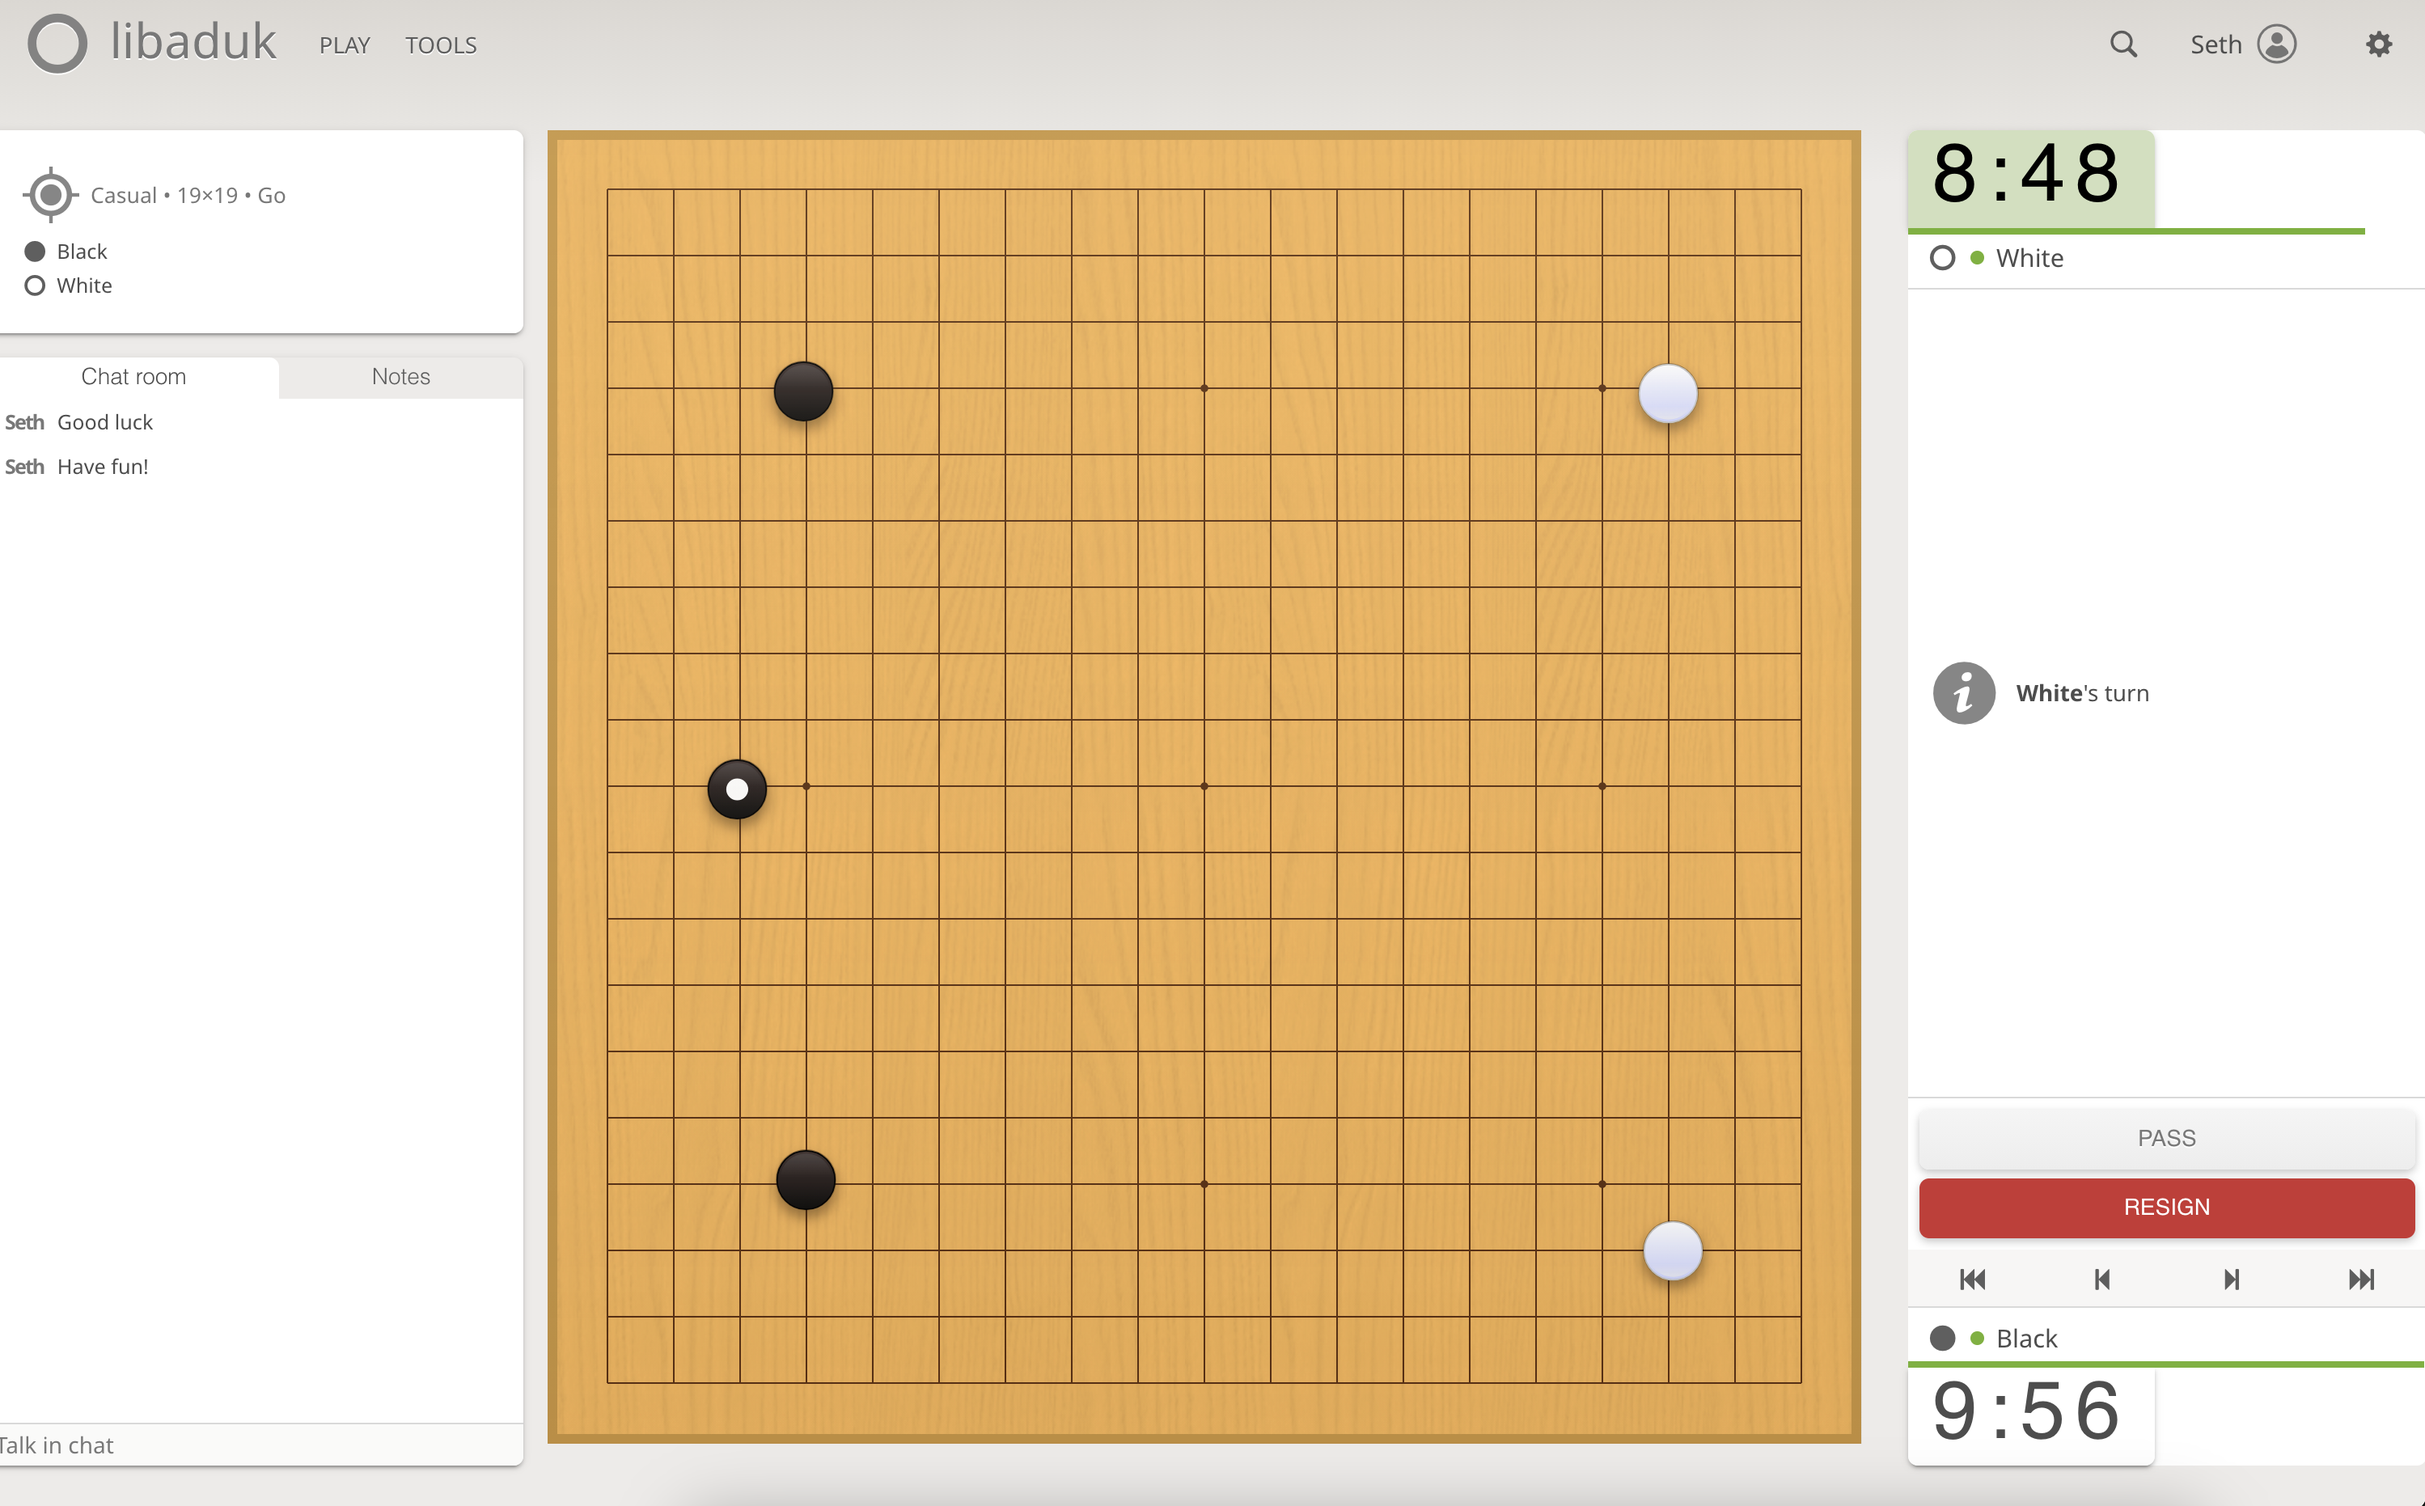
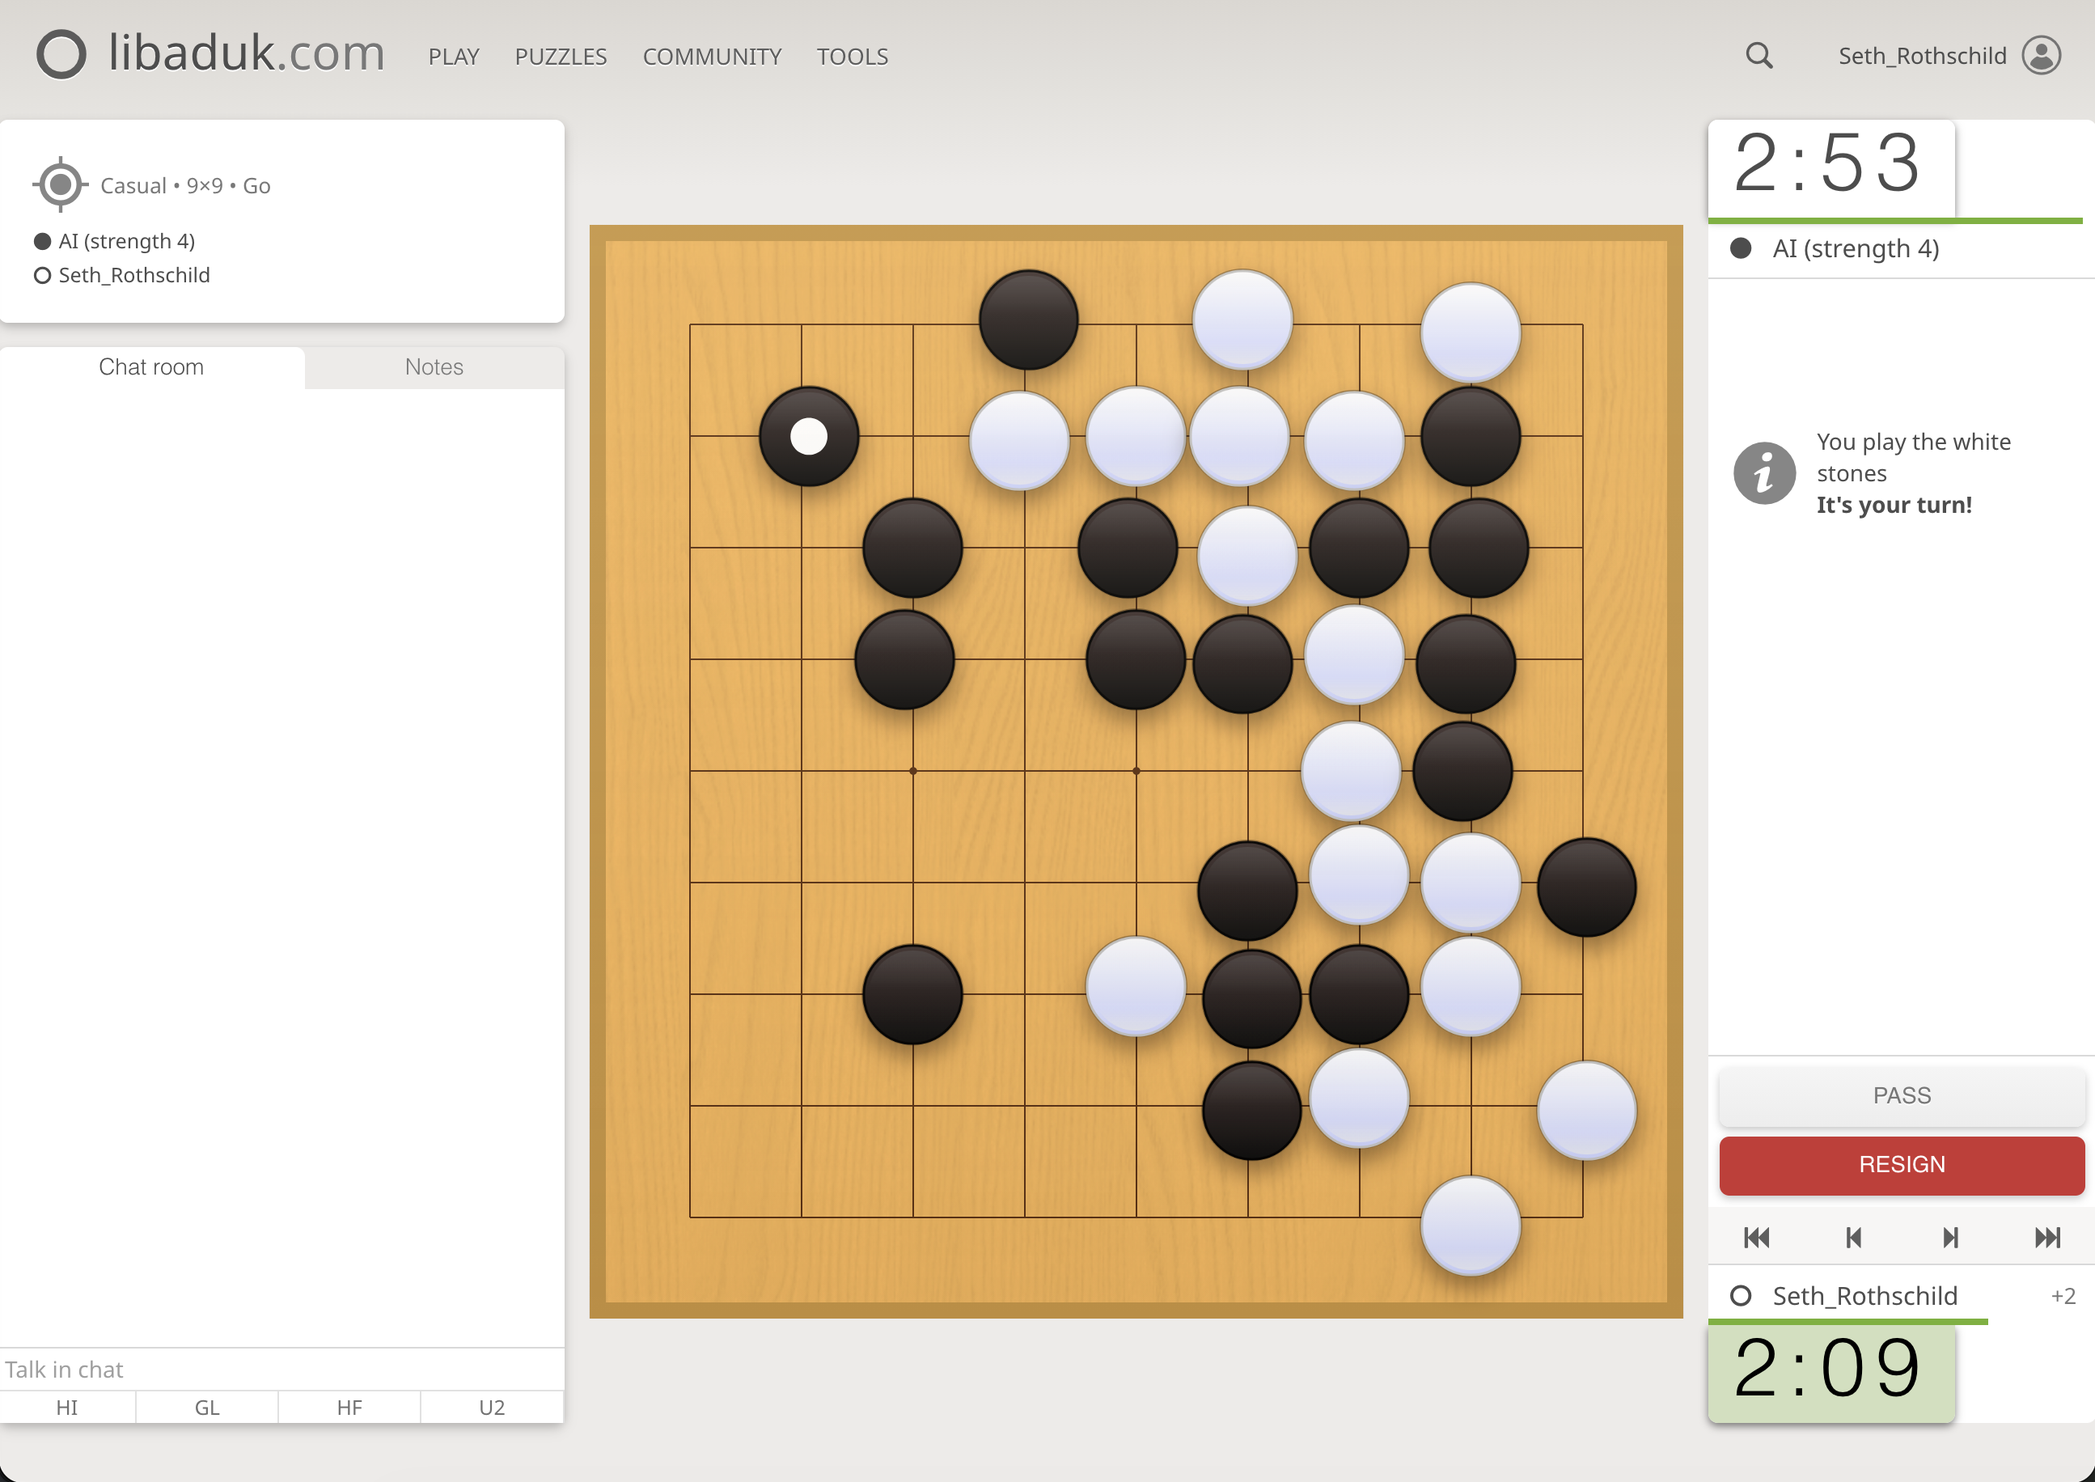
docs: update README

diff --git a/README.md b/README.md
@@ -2,7 +2,7 @@
 
 A Go game platform that looks and feels like [Lichess](https://lichess.org). Here we've taken the css from [lila](https://github.com/lichess-org/lila) the open-source Scala/Play server behind Lichess and applied the css to a Svelte app.
 
-This code is a prototype and has made heavy use of LLMs to get it where it is. It is far from fully functional. Demo site is up at [libaduk.com](https://libaduk.com). Feel free to fork and make changes to suit your needs!
+This code is a prototype and has made heavy use of LLMs to get it started. That being said, it's mostly functional and feels pretty nice to use. Demo site is up at [libaduk.com](https://libaduk.com). If there are things that would improve your experience with the site, just let me know.
 
 ![](./screenshots/main.png)
 
@@ -16,20 +16,10 @@ The client-side AI uses KataGo ONNX models served by [Kaya](https://github.com/k
 
 ![](./screenshots/gameplay.png)
 
-## Roadmap and Anti-Roadmap
+## Roadmap
 
-Right now I'm not interested in replacing OGS or further partitioning the Go community. This code exists to demonstrate _how_ the Lichess UI can be used for Go.
+I'm not interested in replacing OGS or further partitioning the Go community. There are no major new features planned at this time since the site is sufficient for my Go playing needs. That being said, if there's functionality you're specifically interested in please reach out.
 
-If _you_ are interested in deploying this or forking it to suit some other need, I'd be happy to help. It is easy to imagine using this code as an OGS frontend or using the backend to connect existing desktop apps.
-
-The features I'm most interested in right now are:
-
-- **Puzzles** - Lichess puzzles and puzzle UI are one of the highlights of the site. Having a free and open source "Puzzle of the day" with a nice UI would be a win for the go community.
-- **More Go Basics** - This code should be mostly functional for casual play. I just wanted a place where I could play online and review the code afterwards with humans. However, there are some basic features (e.g. visible rankings) that are not yet implemented.
-
-The following are not currently planned:
-
-- **Game verification/Anti-cheat** - Right now gamestate is only verified by the clientside code and assumes everyone is a good citizen. In the unlikely event the users become a problem on [libaduk.com](libaduk.com) the code will remain open source but I'll just shut the site off and leave it for someone else to deploy.
 
 ## Development
 
